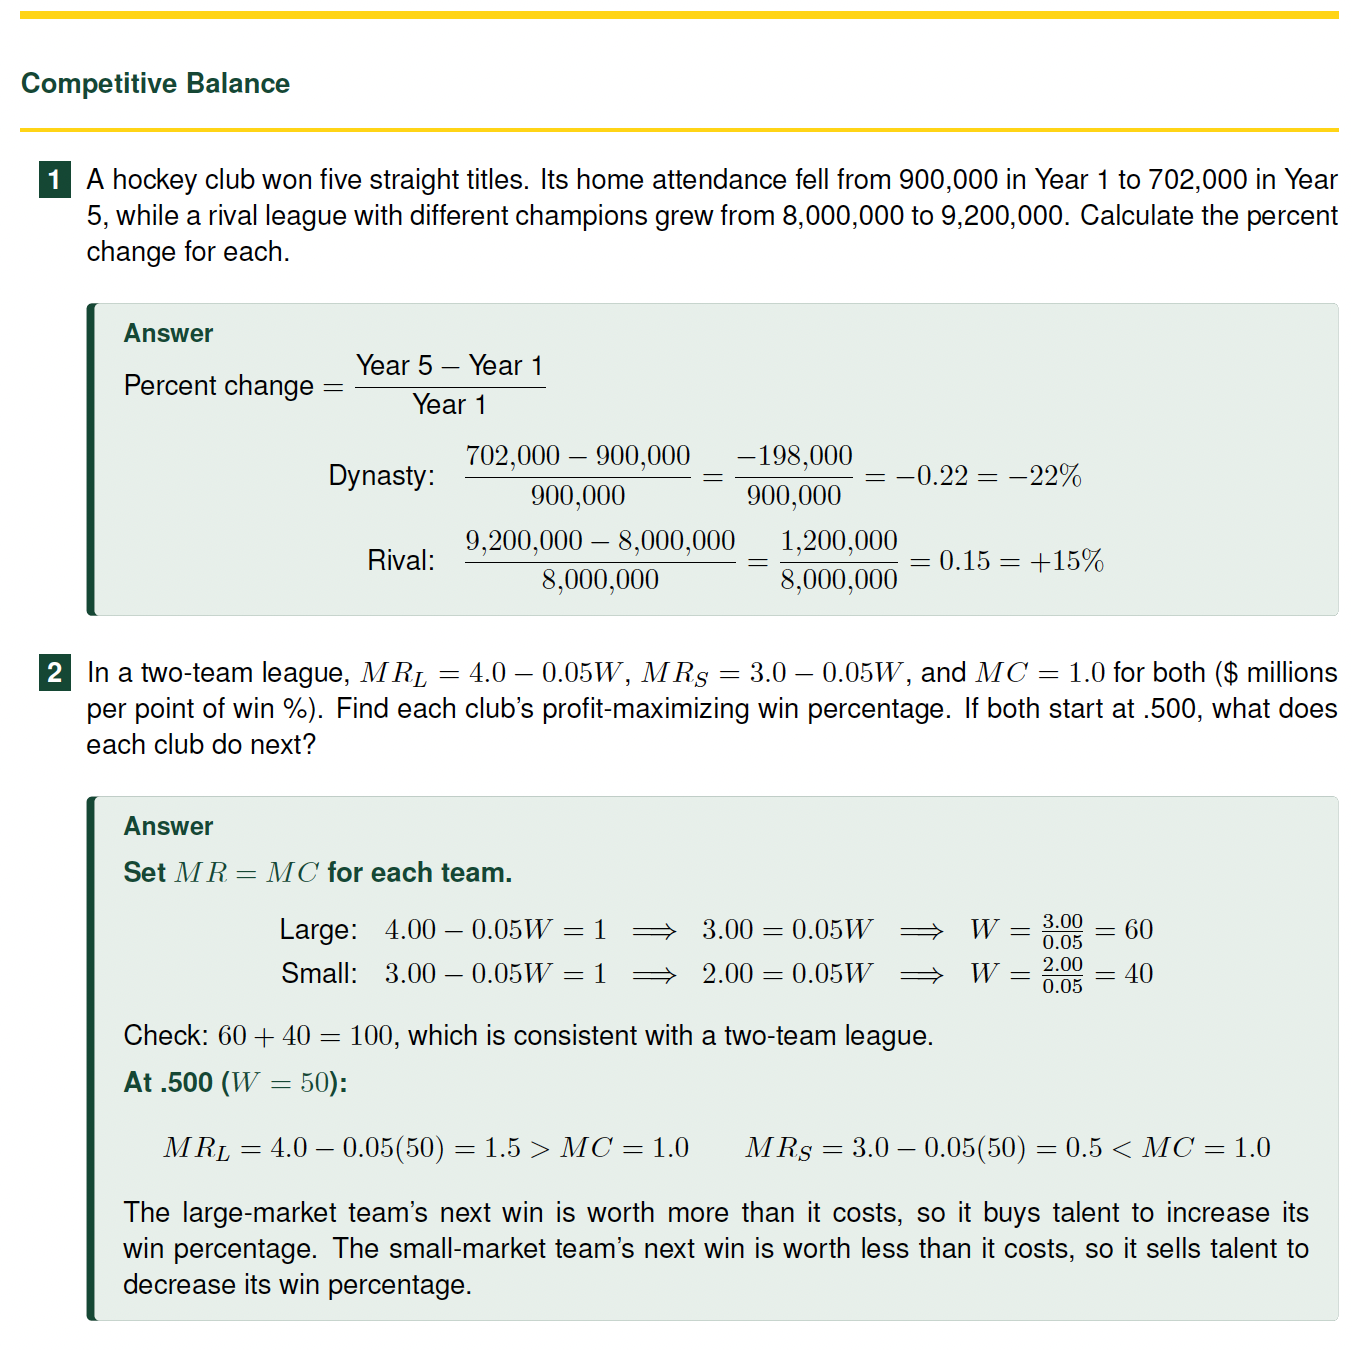
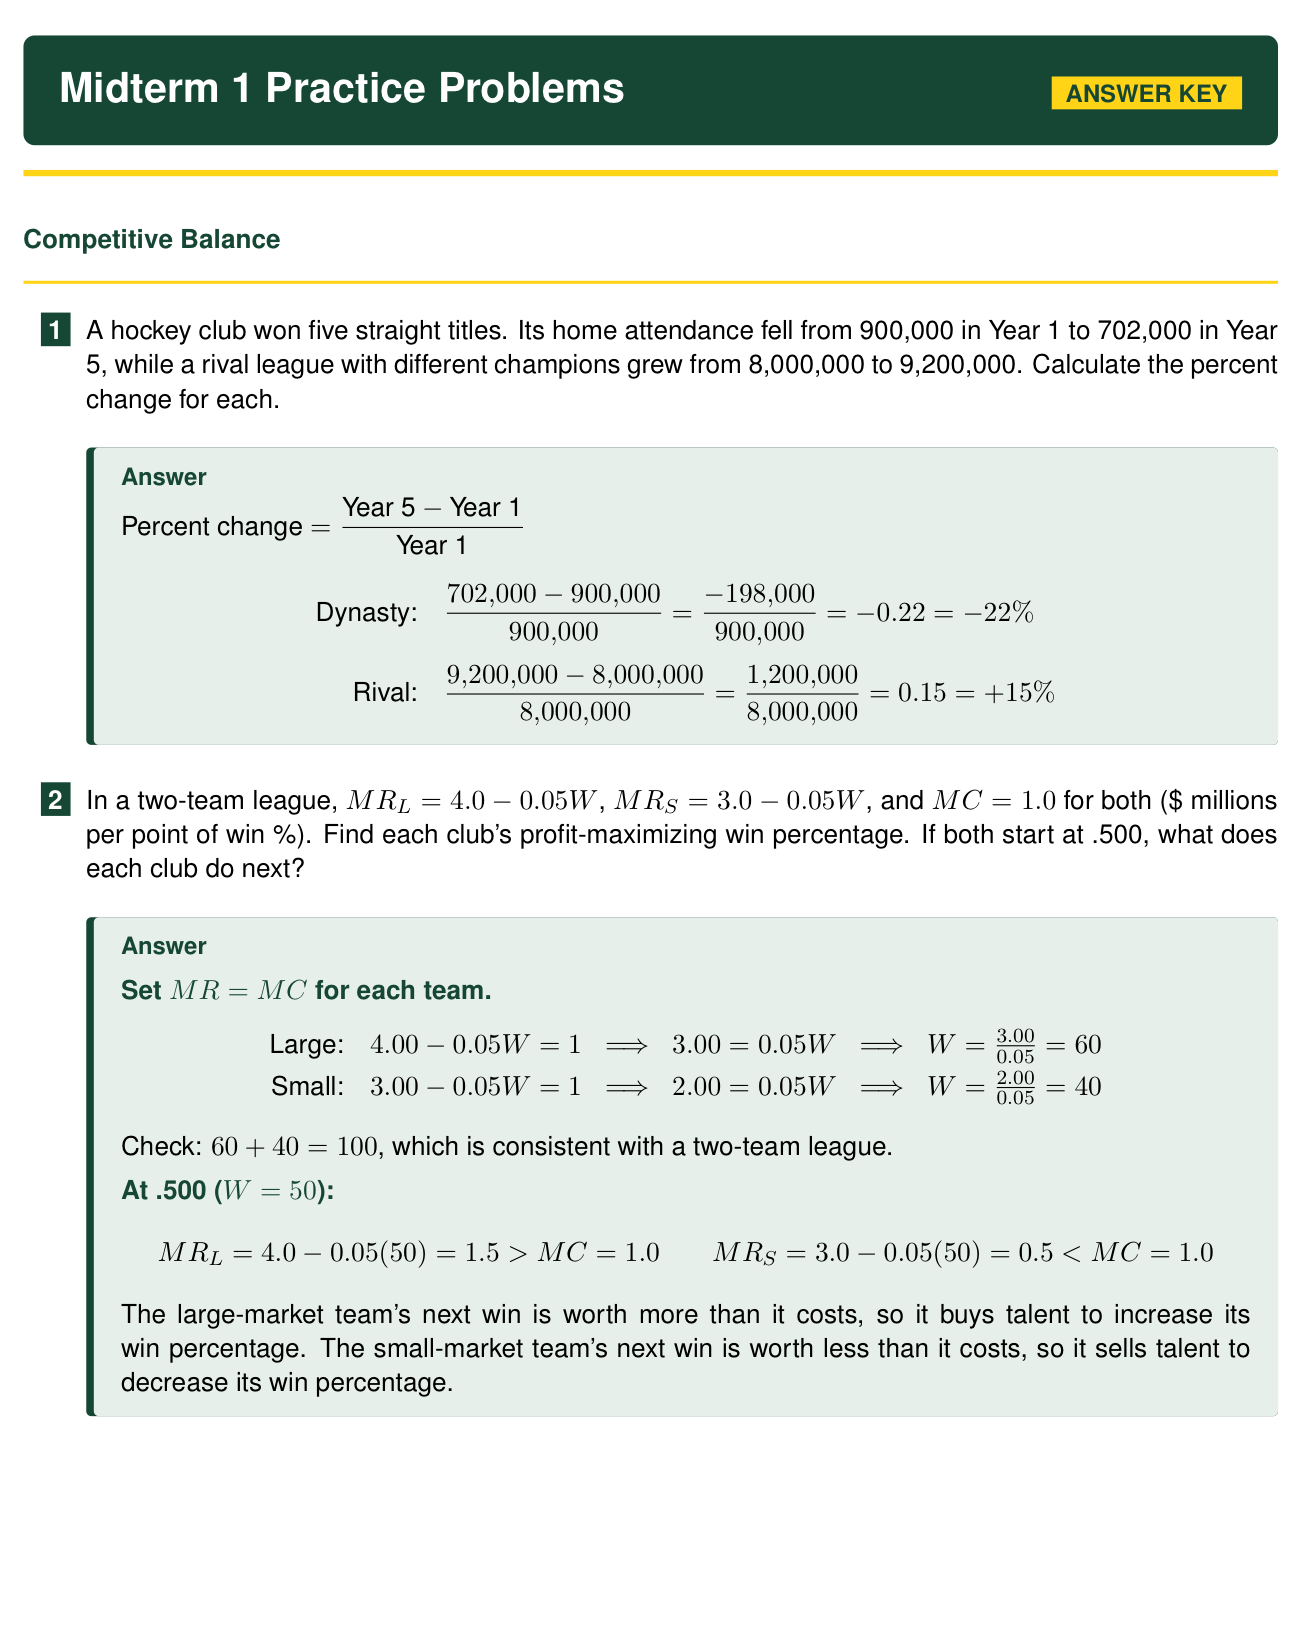
sports

diff --git a/index.html b/index.html
@@ -403,7 +403,7 @@ Households in hurricane-prone areas face rare but potentially devastating losses
       </div>
 
       <a href="assets/files/SportsPractice.pdf" target="_blank">
-      <img src="assets/images/Sports.png" class="mx-auto d-block mt-3 img-natural" style="width: 70%; border-radius: 6px;" alt="Preview of Economics of Sports practice problems">
+      <img src="assets/images/Sports.png" class="mx-auto d-block mt-3" style="width: 70%; border-radius: 6px;" alt="Preview of Economics of Sports practice problems">
       </a>
 
       <div class="mt-3 text-muted small d-flex flex-column align-items-center">

diff --git a/assets/mbr/css/mbr-additional.css b/assets/mbr/css/mbr-additional.css
@@ -1681,7 +1681,6 @@ section[id] { scroll-margin-top: 84px; }
 /* class details: centered to match the centered card content, with equal-size previews */
 .cid-uj33xvSCBc .card-box > div[style*="height: 15px"] { display: none; }
 .cid-uj33xvSCBc .card-box > a > img { aspect-ratio: 4 / 5; height: auto !important; object-fit: cover; object-position: top; }
-.cid-uj33xvSCBc .card-box > a > img.img-natural { aspect-ratio: auto; }
 .cid-uj33xvSCBc .text-muted { align-items: stretch !important; }
 .cid-uj33xvSCBc .term { text-align: center; }
 .cid-uj33xvSCBc .term-facts { justify-content: center; }
